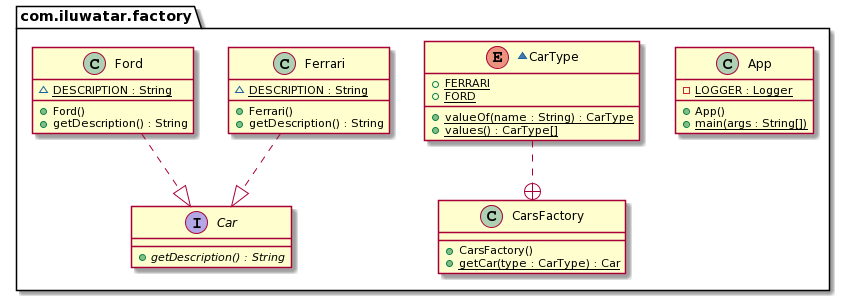
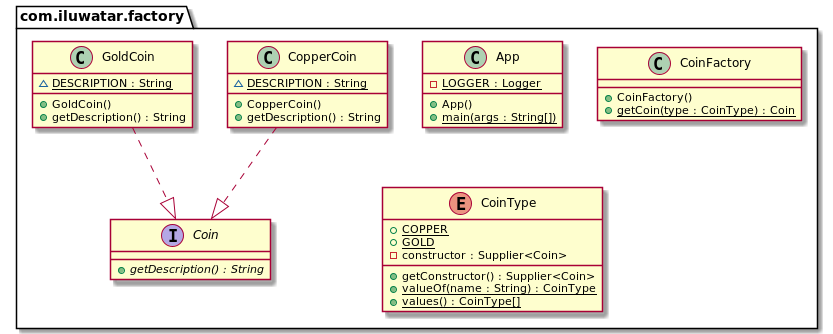
Update factory example

diff --git a/factory/src/main/java/com/iluwatar/factory/App.java b/factory/src/main/java/com/iluwatar/factory/App.java
@@ -30,8 +30,8 @@ import lombok.extern.slf4j.Slf4j;
  * create and return objects of varying classes, in order to hide the implementation logic 
  * and makes client code focus on usage rather then objects initialization and management.
  *
- * <p>In this example the CarFactory is the factory class and it provides a static method to 
- * create different cars.
+ * <p>In this example an alchemist manufactures coins. CoinFactory is the factory class and it
+ * provides a static method to create different types of coins.
  */
 
 @Slf4j
@@ -41,9 +41,10 @@ public class App {
    * Program main entry point.
    */
   public static void main(String[] args) {
-    var car1 = CarsFactory.getCar(CarType.FORD);
-    var car2 = CarsFactory.getCar(CarType.FERRARI);
-    LOGGER.info(car1.getDescription());
-    LOGGER.info(car2.getDescription());
+    LOGGER.info("The alchemist begins his work.");
+    var coin1 = CoinFactory.getCoin(CoinType.COPPER);
+    var coin2 = CoinFactory.getCoin(CoinType.GOLD);
+    LOGGER.info(coin1.getDescription());
+    LOGGER.info(coin2.getDescription());
   }
 }

diff --git a/factory/src/main/java/com/iluwatar/factory/CoinType.java b/factory/src/main/java/com/iluwatar/factory/CoinType.java
@@ -23,16 +23,19 @@
 
 package com.iluwatar.factory;
 
-import static org.junit.jupiter.api.Assertions.*;
+import java.util.function.Supplier;
+import lombok.Getter;
+import lombok.RequiredArgsConstructor;
 
-import org.junit.jupiter.api.Test;
+/**
+ * Enumeration for different types of coins.
+ */
+@RequiredArgsConstructor
+@Getter
+public enum CoinType {
 
-class CarsFactoryTest {
+  COPPER(CopperCoin::new),
+  GOLD(GoldCoin::new);
 
-  @Test
-  void shouldReturnFerrariInstance() {
-    final var ferrari = CarsFactory.getCar(CarType.FERRARI);
-    assertTrue(ferrari instanceof Ferrari);
-  }
-
+  private final Supplier<Coin> constructor;
 }

diff --git a/factory/src/main/java/com/iluwatar/factory/CopperCoin.java b/factory/src/main/java/com/iluwatar/factory/CopperCoin.java
@@ -23,20 +23,15 @@
 
 package com.iluwatar.factory;
 
-import java.util.function.Supplier;
-import lombok.Getter;
-import lombok.RequiredArgsConstructor;
-
 /**
- * Enumeration for different types of cars.
+ * CopperCoin implementation.
  */
-@RequiredArgsConstructor
-@Getter
-public enum CarType {
+public class CopperCoin implements Coin {
 
-  FORD(Ford::new),
-  FERRARI(Ferrari::new);
+  static final String DESCRIPTION = "This is a copper coin.";
 
-  private final Supplier<Car> constructor;
-
+  @Override
+  public String getDescription() {
+    return DESCRIPTION;
+  }
 }

diff --git a/factory/src/main/java/com/iluwatar/factory/CoinFactory.java b/factory/src/main/java/com/iluwatar/factory/CoinFactory.java
@@ -24,14 +24,14 @@
 package com.iluwatar.factory;
 
 /**
- * Ferrari implementation.
+ * Factory of coins.
  */
-public class Ferrari implements Car {
+public class CoinFactory {
 
-  static final String DESCRIPTION = "This is Ferrari.";
-
-  @Override
-  public String getDescription() {
-    return DESCRIPTION;
+  /**
+   * Factory method takes as a parameter the coin type and calls the appropriate class.
+   */
+  public static Coin getCoin(CoinType type) {
+    return type.getConstructor().get();
   }
 }

diff --git a/factory/src/test/java/com/iluwatar/factory/CoinFactoryTest.java b/factory/src/test/java/com/iluwatar/factory/CoinFactoryTest.java
@@ -23,11 +23,15 @@
 
 package com.iluwatar.factory;
 
-/**
- * Car interface.
- */
-public interface Car {
+import static org.junit.jupiter.api.Assertions.*;
 
-  String getDescription();
+import org.junit.jupiter.api.Test;
 
+class CoinFactoryTest {
+
+  @Test
+  void shouldReturnGoldCoinInstance() {
+    final var goldCoin = CoinFactory.getCoin(CoinType.GOLD);
+    assertTrue(goldCoin instanceof GoldCoin);
+  }
 }

diff --git a/factory/src/main/java/com/iluwatar/factory/Coin.java b/factory/src/main/java/com/iluwatar/factory/Coin.java
@@ -24,14 +24,10 @@
 package com.iluwatar.factory;
 
 /**
- * Factory of cars.
+ * Coin interface.
  */
-public class CarsFactory {
+public interface Coin {
 
-  /**
-   * Factory method takes as parameter a car type and initiate the appropriate class.
-   */
-  public static Car getCar(CarType type) {
-    return type.getConstructor().get();
-  }
+  String getDescription();
+
 }

diff --git a/factory/src/main/java/com/iluwatar/factory/GoldCoin.java b/factory/src/main/java/com/iluwatar/factory/GoldCoin.java
@@ -24,11 +24,11 @@
 package com.iluwatar.factory;
 
 /**
- * Ford implementation.
+ * GoldCoin implementation.
  */
-public class Ford implements Car {
+public class GoldCoin implements Coin {
 
-  static final String DESCRIPTION = "This is Ford.";
+  static final String DESCRIPTION = "This is a gold coin.";
 
   @Override
   public String getDescription() {

diff --git a/factory/README.md b/factory/README.md
@@ -16,16 +16,17 @@ tags:
 
 ## Intent
 
-Providing a static method encapsulated in a class called factory, in order to hide the 
-implementation logic and makes client code focus on usage rather then initialization new objects.
+Providing a static method encapsulated in a class called the factory, to hide the implementation 
+logic and make client code focus on usage rather than initializing new objects.
 
 ## Explanation
 
-Real world example
+Real-world example
 
-> Lets say we have a web application connected to SQLServer, but now we want to switch to Oracle. To 
-> do so without modifying existing source code, we need to implements Simple Factory pattern, in 
-> which a static method can be invoked to create connection to a given database.
+> Imagine an alchemist who is about to manufacture coins. The alchemist must be able to create both 
+> gold and copper coins and switching between them must be possible without modifying the existing 
+> source code. The factory pattern makes it possible by providing a static construction method which 
+> can be called with relevant parameters.
 
 Wikipedia says
 
@@ -34,16 +35,16 @@ Wikipedia says
 
 **Programmatic Example**
 
-We have an interface `Car` and two implementations `Ford` and `Ferrari`.
+We have an interface `Coin` and two implementations `GoldCoin` and `CopperCoin`.
 
 ```java
-public interface Car {
+public interface Coin {
   String getDescription();
 }
 
-public class Ford implements Car {
+public class GoldCoin implements Coin {
 
-  static final String DESCRIPTION = "This is Ford.";
+  static final String DESCRIPTION = "This is a gold coin.";
 
   @Override
   public String getDescription() {
@@ -51,9 +52,9 @@ public class Ford implements Car {
   }
 }
 
-public class Ferrari implements Car {
+public class CopperCoin implements Coin {
    
-  static final String DESCRIPTION = "This is Ferrari.";
+  static final String DESCRIPTION = "This is a copper coin.";
 
   @Override
   public String getDescription() {
@@ -62,51 +63,48 @@ public class Ferrari implements Car {
 }
 ```
 
-Enumeration above represents types of cars that we support (`Ford` and `Ferrari`).
+Enumeration above represents types of coins that we support (`GoldCoin` and `CopperCoin`).
 
 ```java
-public enum CarType {
-  
-  FORD(Ford::new), 
-  FERRARI(Ferrari::new);
-  
-  private final Supplier<Car> constructor; 
-  
-  CarType(Supplier<Car> constructor) {
-    this.constructor = constructor;
-  }
-  
-  public Supplier<Car> getConstructor() {
-    return this.constructor;
-  }
+@RequiredArgsConstructor
+@Getter
+public enum CoinType {
+
+  COPPER(CopperCoin::new),
+  GOLD(GoldCoin::new);
+
+  private final Supplier<Coin> constructor;
 }
 ```
-Then we have the static method `getCar` to create car objects encapsulated in the factory class 
-`CarsFactory`.
+
+Then we have the static method `getCoin` to create coin objects encapsulated in the factory class 
+`CoinFactory`.
 
 ```java
-public class CarsFactory {
-  
-  public static Car getCar(CarType type) {
+public class CoinFactory {
+
+  public static Coin getCoin(CoinType type) {
     return type.getConstructor().get();
   }
 }
 ```
 
-Now on the client code we can create different types of cars using the factory class.
+Now on the client code we can create different types of coins using the factory class.
 
 ```java
-var car1 = CarsFactory.getCar(CarType.FORD);
-var car2 = CarsFactory.getCar(CarType.FERRARI);
-LOGGER.info(car1.getDescription());
-LOGGER.info(car2.getDescription());
+LOGGER.info("The alchemist begins his work.");
+var coin1 = CoinFactory.getCoin(CoinType.COPPER);
+var coin2 = CoinFactory.getCoin(CoinType.GOLD);
+LOGGER.info(coin1.getDescription());
+LOGGER.info(coin2.getDescription());
 ```
 
 Program output:
 
 ```java
-This is Ford.
-This is Ferrari.
+The alchemist begins his work.
+This is a copper coin.
+This is a gold coin.
 ```
 
 ## Class Diagram
@@ -115,7 +113,7 @@ This is Ferrari.
 
 ## Applicability
 
-Use the Simple Factory pattern when you only care about the creation of a object, not how to create 
+Use the factory pattern when you only care about the creation of a object, not how to create 
 and manage it.
 
 Pros
@@ -127,13 +125,13 @@ Cons
 
 * The code becomes more complicated than it should be. 
 
-## Real world examples
+## Known uses
 
 * [java.util.Calendar#getInstance()](https://docs.oracle.com/javase/8/docs/api/java/util/Calendar.html#getInstance--)
 * [java.util.ResourceBundle#getBundle()](https://docs.oracle.com/javase/8/docs/api/java/util/ResourceBundle.html#getBundle-java.lang.String-)
 * [java.text.NumberFormat#getInstance()](https://docs.oracle.com/javase/8/docs/api/java/text/NumberFormat.html#getInstance--)
 * [java.nio.charset.Charset#forName()](https://docs.oracle.com/javase/8/docs/api/java/nio/charset/Charset.html#forName-java.lang.String-)
-* [java.net.URLStreamHandlerFactory#createURLStreamHandler(String)](https://docs.oracle.com/javase/8/docs/api/java/net/URLStreamHandlerFactory.html) (Returns different singleton objects, depending on a protocol)
+* [java.net.URLStreamHandlerFactory#createURLStreamHandler(String)](https://docs.oracle.com/javase/8/docs/api/java/net/URLStreamHandlerFactory.html) (returns different singleton objects, depending on a protocol)
 * [java.util.EnumSet#of()](https://docs.oracle.com/javase/8/docs/api/java/util/EnumSet.html#of(E))
 * [javax.xml.bind.JAXBContext#createMarshaller()](https://docs.oracle.com/javase/8/docs/api/javax/xml/bind/JAXBContext.html#createMarshaller--) and other similar methods.
 
